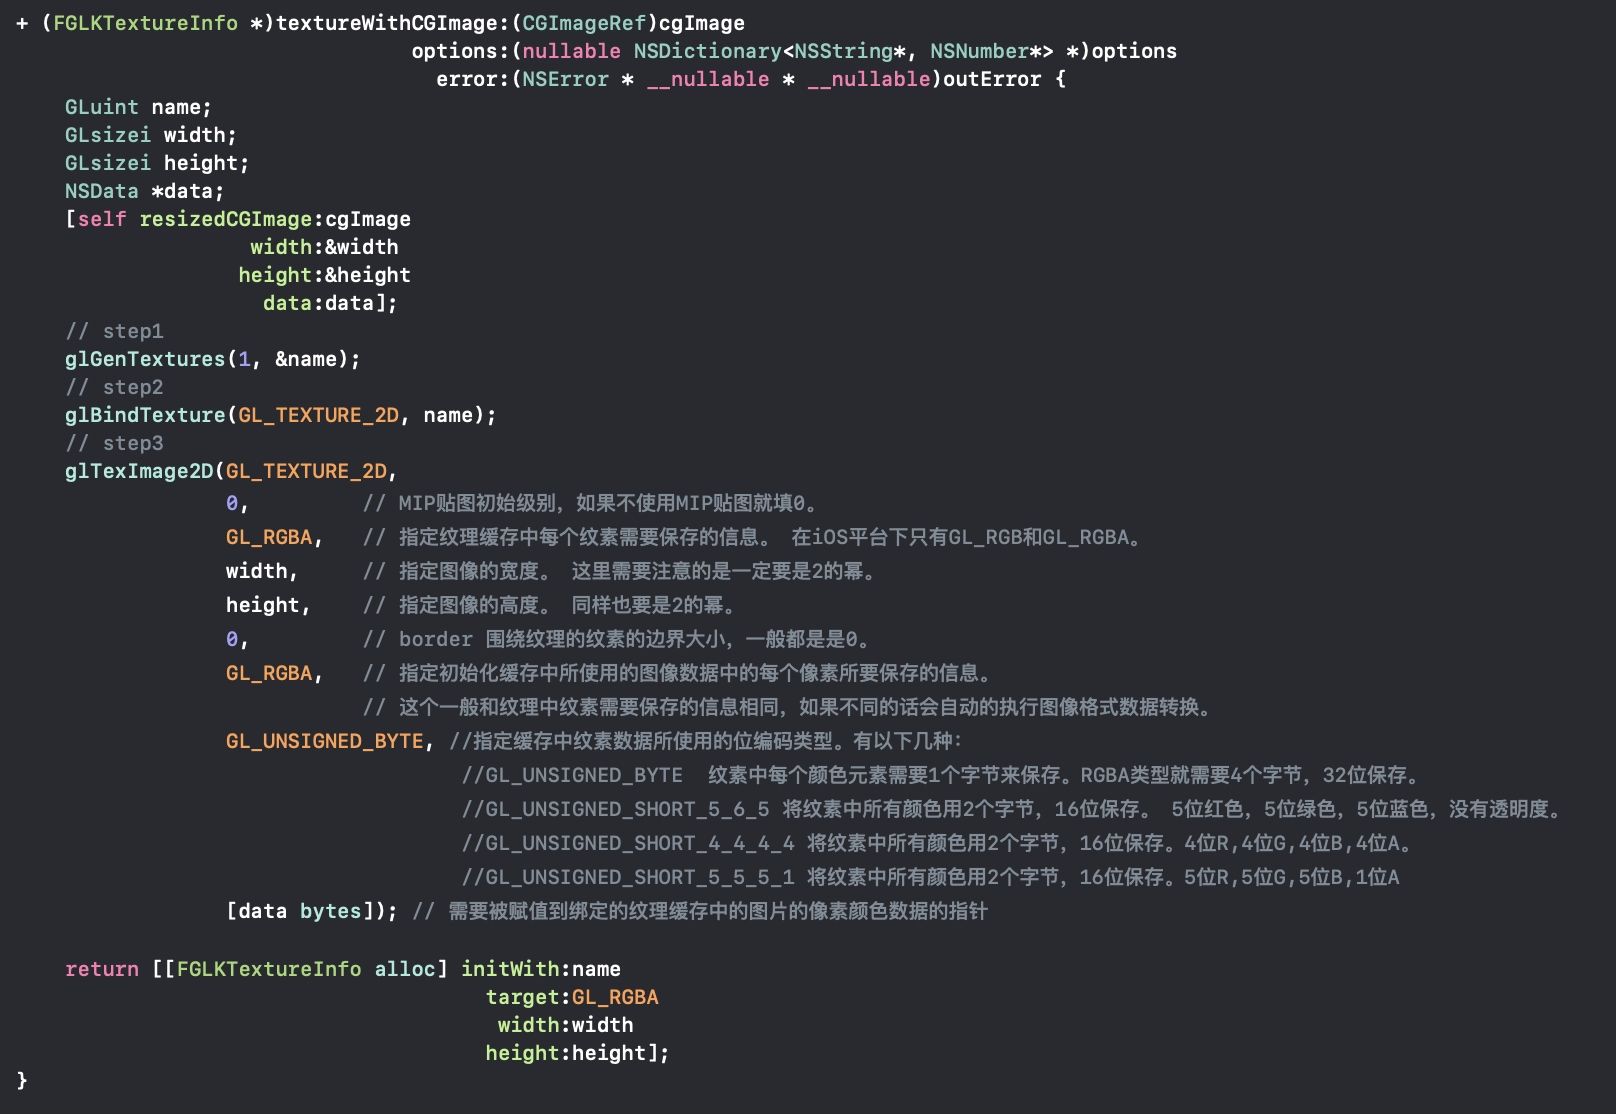
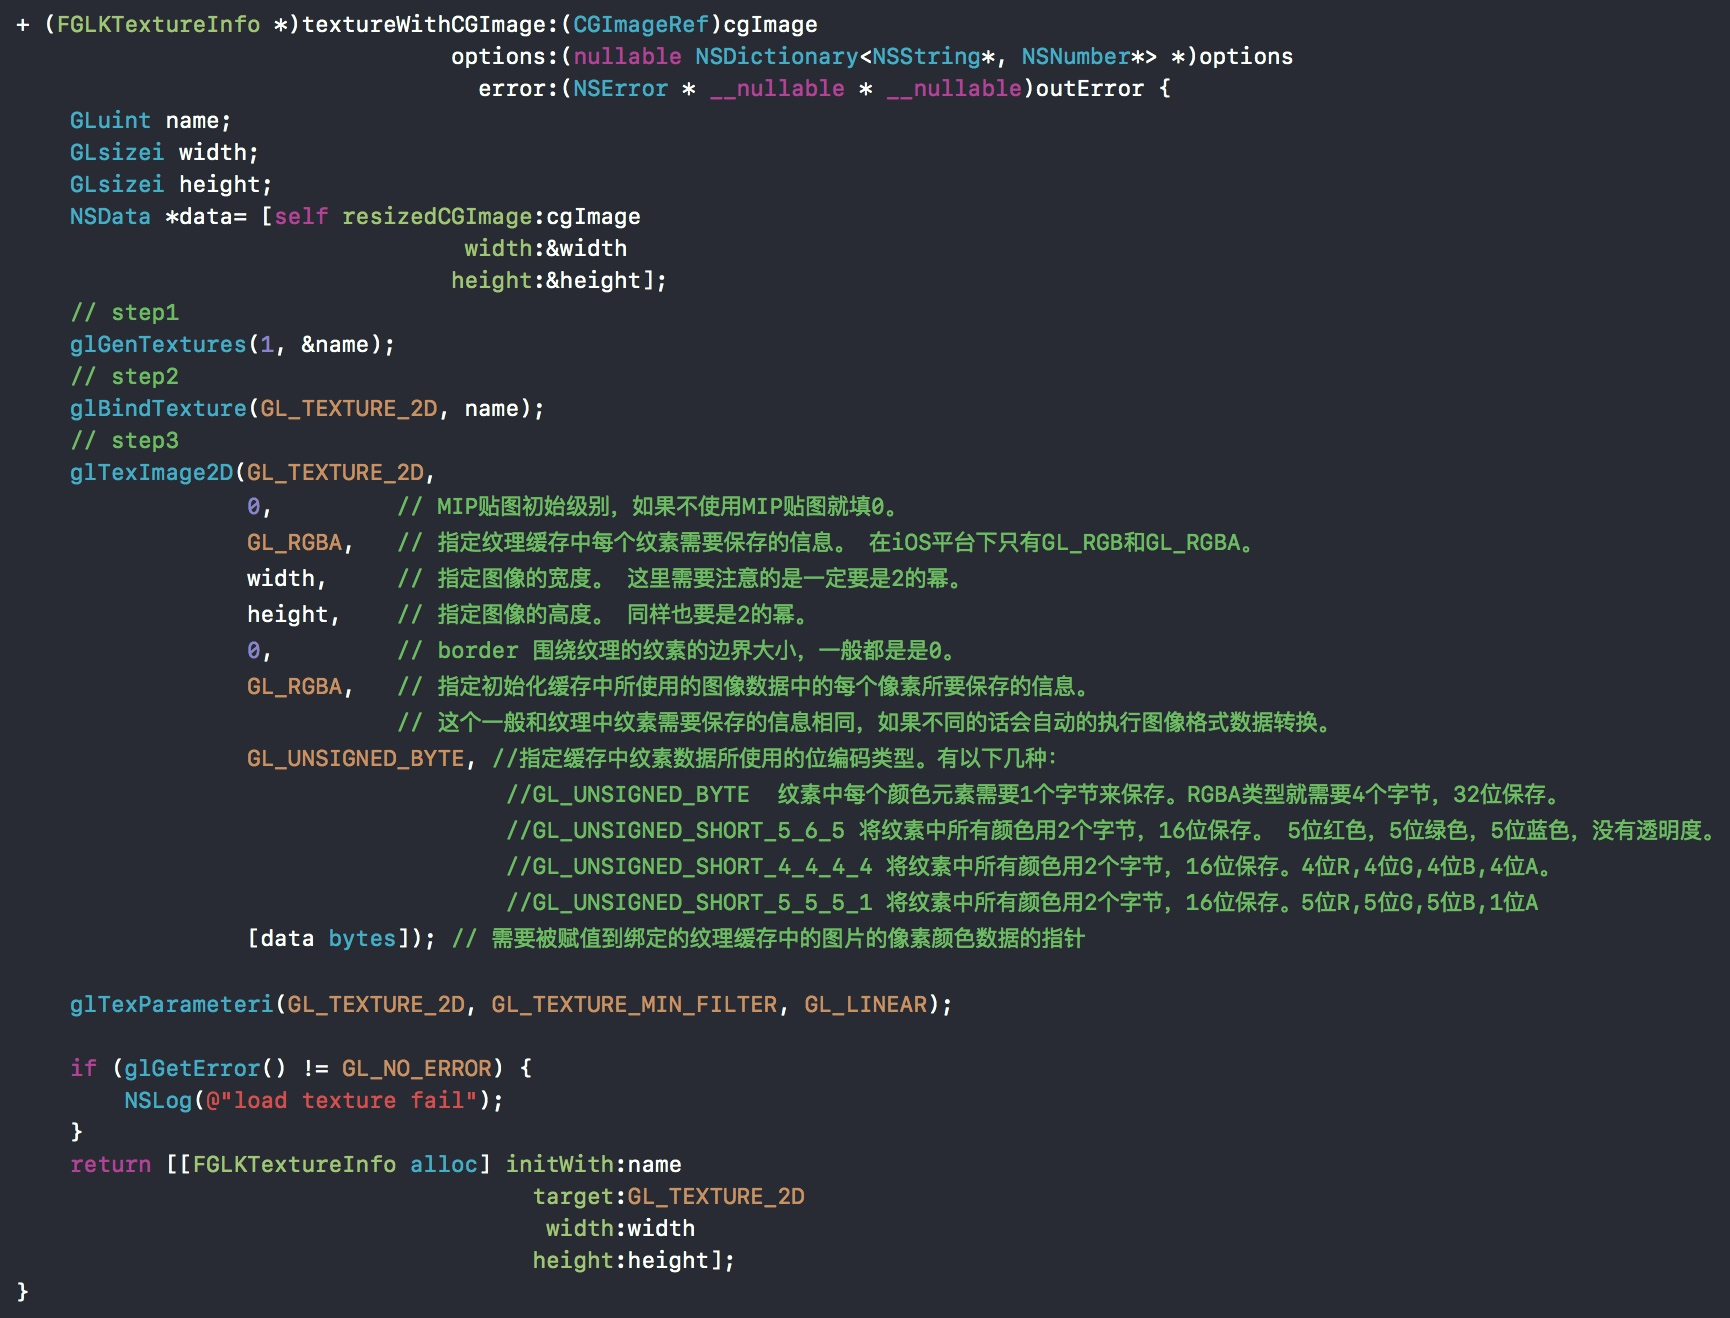
完成GLTextureLoader基础实现

Changed region(s): [[0.0309, 0.0916, 0.9901, 0.9767], [0.0, 0.0, 0.7426, 0.0916]]

diff --git a/GLKit04-GLTextureLoader&&GLKTextureInfo实现/GLKit03-GLTextureLoader&&GLKTextureInfo实现/FGLKTextureLoader.m b/GLKit04-GLTextureLoader&&GLKTextureInfo实现/GLKit03-GLTextureLoader&&GLKTextureInfo实现/FGLKTextureLoader.m
@@ -46,11 +46,9 @@
     GLuint name;
     GLsizei width;
     GLsizei height;
-    NSData *data;
-    [self resizedCGImage:cgImage
-                   width:&width
-                  height:&height
-                    data:data];
+    NSData *data= [self resizedCGImage:cgImage
+                                 width:&width
+                                height:&height];
     // step1
     glGenTextures(1, &name);
     // step2
@@ -71,27 +69,26 @@
                                     //GL_UNSIGNED_SHORT_5_5_5_1 将纹素中所有颜色用2个字节，16位保存。5位R,5位G,5位B,1位A
                  [data bytes]); // 需要被赋值到绑定的纹理缓存中的图片的像素颜色数据的指针
     
-    glTexParameterf(GL_TEXTURE_2D, GL_TEXTURE_MIN_FILTER, GL_LINEAR);
+    glTexParameteri(GL_TEXTURE_2D, GL_TEXTURE_MIN_FILTER, GL_LINEAR);
     
     if (glGetError() != GL_NO_ERROR) {
         NSLog(@"load texture fail");
     }
     return [[FGLKTextureInfo alloc] initWith:name
-                                      target:GL_RGBA
+                                      target:GL_TEXTURE_2D
                                        width:width
                                       height:height];
 }
 
 
-+ (void)resizedCGImage:(CGImageRef)cgImage
++ (NSData*)resizedCGImage:(CGImageRef)cgImage
                  width:(GLsizei *)width
-                height:(GLsizei *)height
-                  data:(NSData *)data{
-    
+                height:(GLsizei *)height{
+    // 1. 获取原始像素尺寸
     size_t originalW = CGImageGetWidth(cgImage);
     size_t originalH = CGImageGetHeight(cgImage);
     
-    // 1. 计算长宽最接近的2的幂。
+    // 2. 将原始像素尺寸的长宽计算成 最接近的 2的幂， 得到我们期望的像素长宽。
     GLsizei pWidth = pow(2, 10);
     GLsizei pHeight = pow(2, 10);
     for (int i = 0; i < 9; i++) {
@@ -105,28 +102,49 @@
         }
     }
     
-    // 2. 开辟data空间
+    // 3. 将image重新绘制成我们期望的像素长宽，并将绘制完成后的图像数据存储在data里。
+    // 3.1 每个像素我们希望以GL_RGBA的方式存储，而且位编码类型是GL_UNSIGNED_BYTE。所以初始化data的长度是 w*h*4
     NSMutableData *mData = [NSMutableData dataWithLength: pWidth * pHeight * 4];
+    // 3.2 选择一个颜色填充模式，这里使用RGB。
     CGColorSpaceRef colorSpace = CGColorSpaceCreateDeviceRGB();
-    CGContextRef context = CGBitmapContextCreate([mData mutableBytes],
-                                                 pWidth,
-                                                 pHeight,
-                                                 8,
-                                                 pWidth * 4,
-                                                 colorSpace,
-                                                 kCGImageAlphaPremultipliedLast);
+    // 3.3 创建一个文 用于保存图像操作信息。
+    CGContextRef context = CGBitmapContextCreate([mData mutableBytes],  //数据保存指针
+                                                 pWidth,                //像素宽
+                                                 pHeight,               //像素高
+                                                 8,                     //每个像素中的每个颜色元素所需要的bits
+                                                 pWidth * 4,            //每一行需要bytes
+                                                 colorSpace,            //颜色填充模式
+                                                 kCGImageAlphaPremultipliedLast); //Alpha的位置
     CGColorSpaceRelease(colorSpace);
-    CGContextDrawImage(context, CGRectMake(0, 0, pWidth, pHeight), cgImage);
     
+    /*
+     Core Graphics 以原点在左上角，Y轴向下的形式来保存图片的.
+     而纹理坐标系 原点在左下角,T轴向上。
+     
+                                T
+     0-------------> X         /\
+     |                          |
+     |                          |
+     |                          |
+     |                          |
+     \/                         0---------------> S
+     Y
+     
+     所以需要翻转一下
+     */
     
+    // 向上移动 pHeight
     CGContextTranslateCTM (context, 0, pHeight);
+    // X *1 ，Y * -1
     CGContextScaleCTM (context, 1.0, -1.0);
-    
+    // 开始绘图
+    CGContextDrawImage(context, CGRectMake(0, 0, pWidth, pHeight), cgImage);
+    // 销毁上下文
     CGContextRelease(context);
     
     *width = pWidth;
     *height = pHeight;
-    data = mData;
+    return mData;
 }
 
 @end

diff --git a/GLKit04-GLTextureLoader&&GLKTextureInfo实现/GLKit03-GLTextureLoader&&GLKTextureInfo实现/ViewController.m b/GLKit04-GLTextureLoader&&GLKTextureInfo实现/GLKit03-GLTextureLoader&&GLKTextureInfo实现/ViewController.m
@@ -18,8 +18,7 @@ typedef struct {
 static const SenceVertex verteices[] = {
     {{-0.5,0.5,0},{0,1}},
     {{-0.5,-0.5,0},{0,0}},
-    {{0.5,-0.5,0},{1,0}},
-    {{0.5,0.5,0},{1,1}},
+    {{0.5,-0.5,0},{1,0}}
 };
 
 @interface ViewController ()
@@ -37,11 +36,11 @@ static const SenceVertex verteices[] = {
     view.context = [[EAGLContext alloc] initWithAPI:kEAGLRenderingAPIOpenGLES2];
     [EAGLContext setCurrentContext:view.context];
     
-    effect = [[GLKBaseEffect alloc]init];
-    effect.constantColor = GLKVector4Make(1, 1, 1, 1);
-    effect.useConstantColor = true;
-    
     glClearColor(0, 0, 0, 1);
+    effect = [[GLKBaseEffect alloc]init];
+    effect.useConstantColor = true;
+    effect.constantColor = GLKVector4Make(1, 1, 1, 1);
+    
     vertexBuffer = [[FVertexAttribArrayBuffer alloc] initWithStride:sizeof(SenceVertex)
                                                      namberOfVertex:sizeof(verteices)/sizeof(SenceVertex)
                                                              buffer:verteices
@@ -57,7 +56,6 @@ static const SenceVertex verteices[] = {
 
 - (void)glkView:(GLKView *)view drawInRect:(CGRect)rect {
     [effect prepareToDraw];
-    
     [vertexBuffer prepareToDraw:GLKVertexAttribPosition
           numberOfCoordinatices:3
                          offset:offsetof(SenceVertex, positionCoordinate)
@@ -66,9 +64,10 @@ static const SenceVertex verteices[] = {
           numberOfCoordinatices:2
                          offset:offsetof(SenceVertex, textureCoordinate)
                          enable:true];
+    
     [vertexBuffer drawMode:GL_TRIANGLES
            startOfVerteice:0
-          numberOfVerteice:4];
+          numberOfVerteice:3];
 }
 
 - (void)didReceiveMemoryWarning {

diff --git a/markdown/GLTextureLoader && GLKTextureInfo 实现.md b/markdown/GLTextureLoader && GLKTextureInfo 实现.md
@@ -1,5 +1,8 @@
 ## GLTextureLoader && GLKTextureInfo 实现
-- 纹理缓存：纹理缓存和其他前面讨论的缓存具有相同的步骤。首先使用`glGenTextures()`函数生成一个纹理标识符；然后`glBindTexture()`函数将其绑定到当前上下文；最后`glTeximage2D()`赋值图像数据来初始化纹理缓存内容。例如：![](media/09.jpg)
+- 纹理缓存的使用步骤：纹理缓存和其他前面讨论的缓存具有相同的步骤。首先使用`glGenTextures()`函数生成一个纹理标识符；然后`glBindTexture()`函数将其绑定到当前上下文；最后`glTeximage2D()`赋值图像数据来初始化纹理缓存内容。例如：![](media/09.jpg)
 
 - 需要注意的是不管每个颜色元素保存的位数量是多少，颜色元素的强度最终会被GPU缩放到0~1之间。一个强度为满值的颜色元素（所有那个颜色的位都是1）则对应一个1.0强度。透明度颜色强度为1表示不透明，0表示透明。
+- 大部分的OpenGL ES实现要么需要，要么受益于尺寸为2的幂的纹理。如果不是2的幂，纹理要么不工作，要么效率低下。这里我们使用了`resizedCGImage:width:height:` 方法一下图形的转换。 ![](media/10-1.jpg)
+![](media/10-2.jpg)
+
 

diff --git a/README.md b/README.md
@@ -23,5 +23,10 @@
 - MIP贴图
 - 使用纹理贴图
 
+## [GLTextureLoader && GLKTextureInfo 实现](markdown/GLTextureLoader && GLKTextureInfo 实现.md)
+- 纹理缓存的使用步骤。
+- 颜色元素的强度。
+- Core Graphics图形转换。
+
 
 
